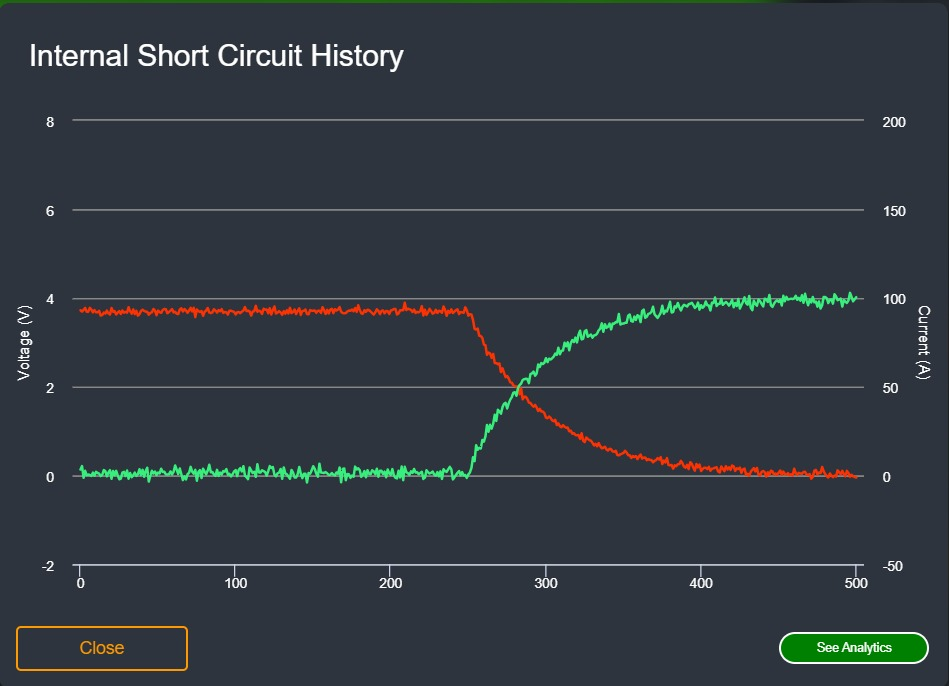
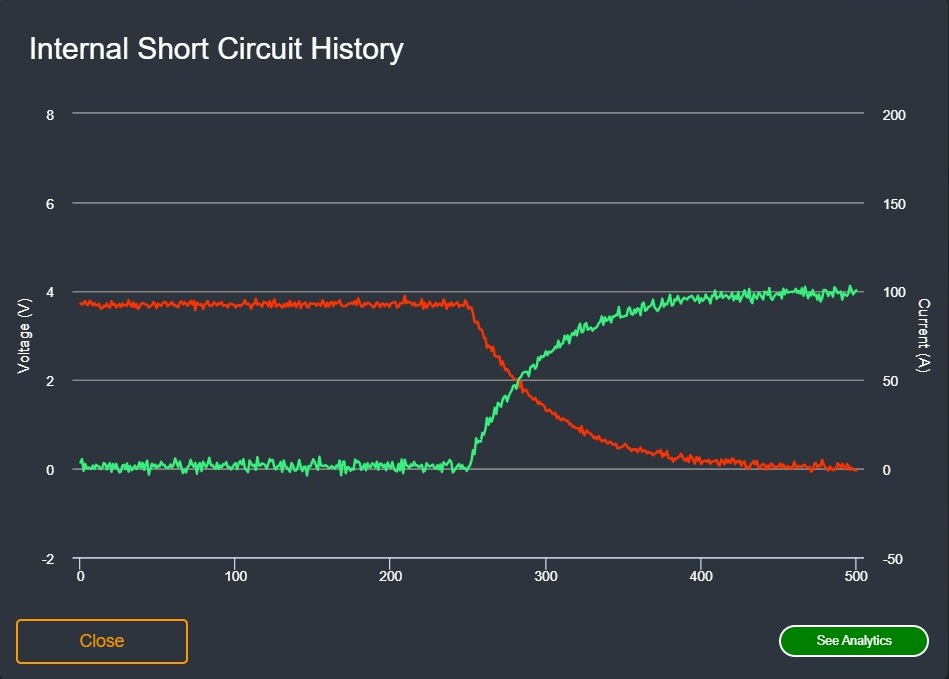
resize images

diff --git a/README.md b/README.md
@@ -91,7 +91,7 @@ There is an analytics section to examine the sensor data in detail. You can reac
 
 The Fault Detection API provides real-time and historical data analysis for detecting faults in vehicles. It offers insights into various parameters such as temperature, voltage, and current, enabling users to monitor the health of their vehicles. This API is provided by Eatron Technologies, and is integrated into the web application. To access the API see the [section](#obtaining-an-api-key-for-analytics-and-fault-detection-apis) below.
 
-![Fault Detection](assets/fault_detection.png)
+![Fault Detection](assets/fault_detection.jpeg)
 
 
 ##### Real-Time Anomaly Detection
